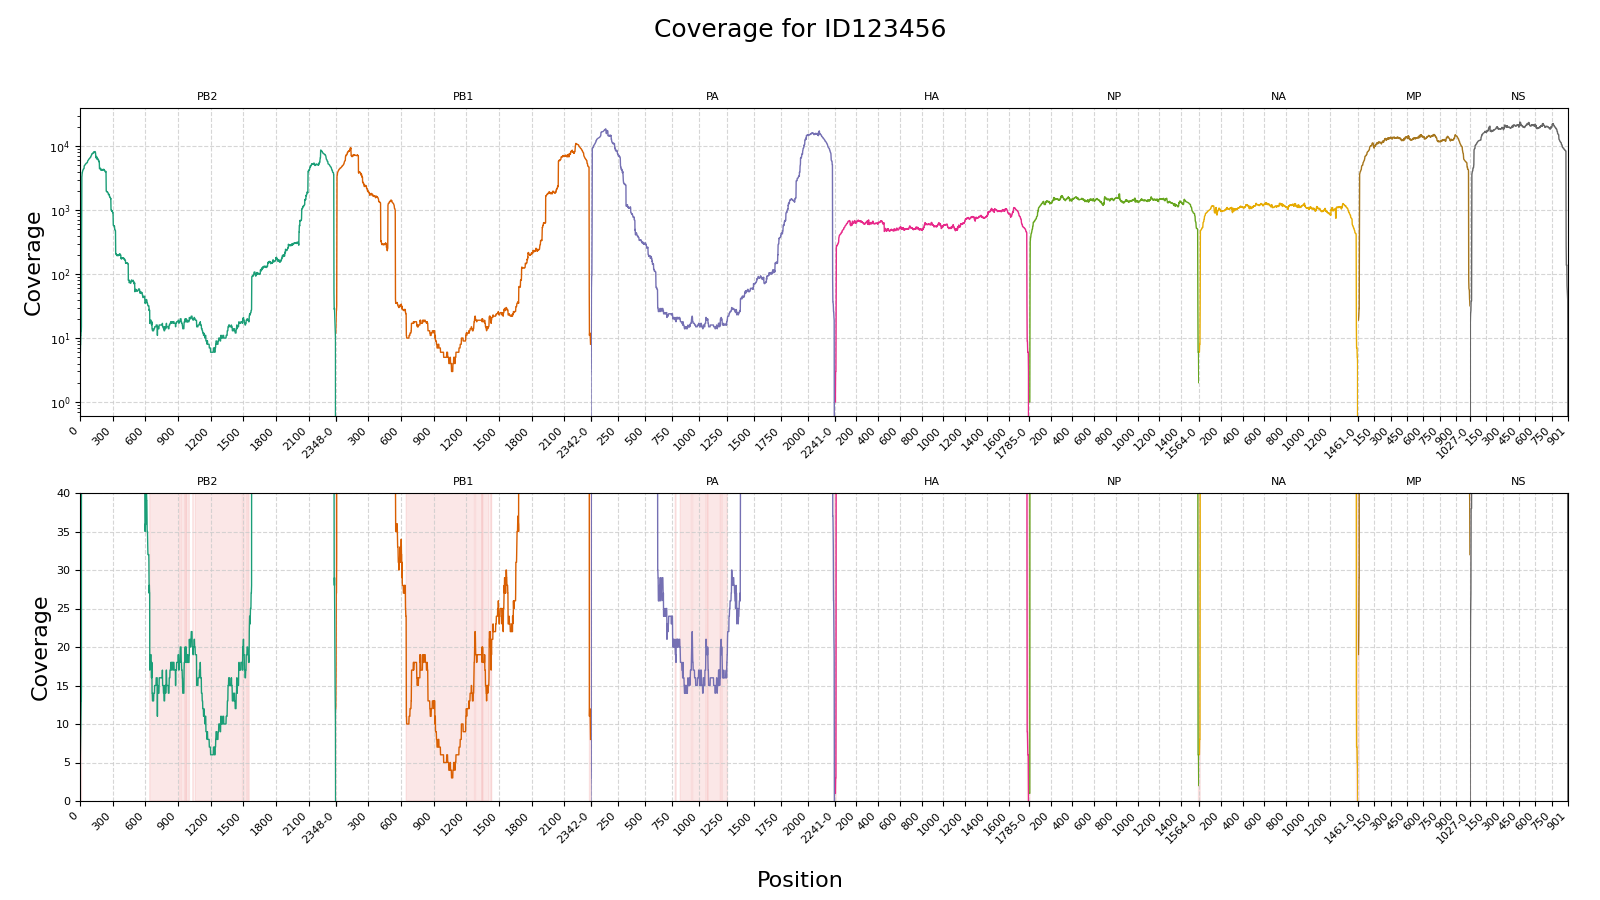
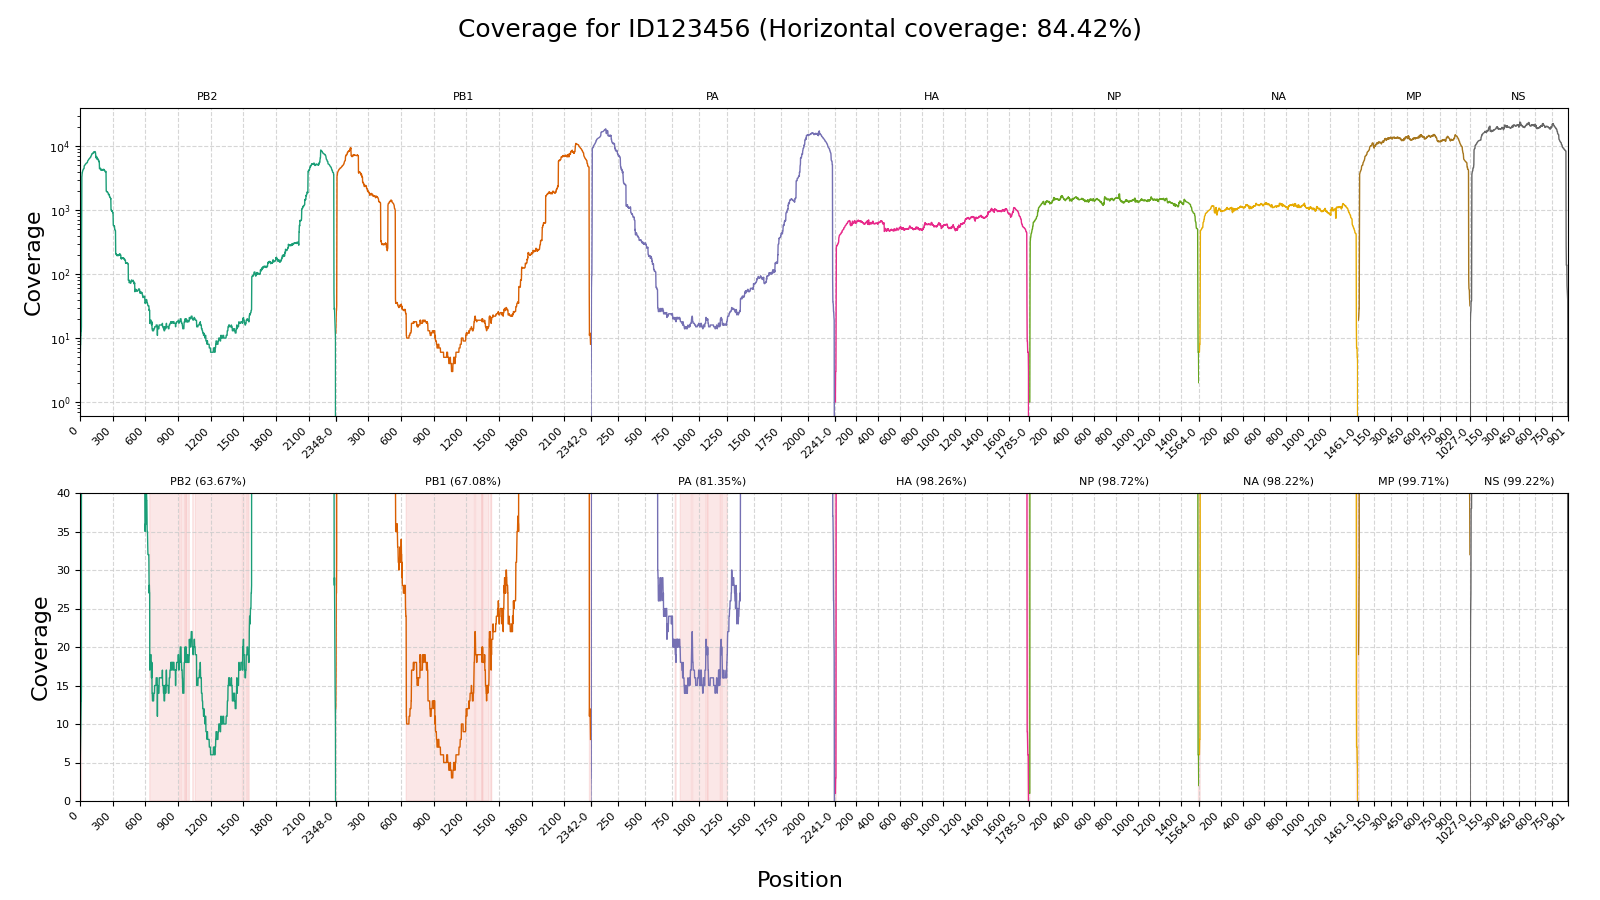
feat: added horizontal coverage

diff --git a/src/tacos/tacos.py b/src/tacos/tacos.py
@@ -13,7 +13,7 @@ from pandas.core.frame import DataFrame
 # Stops annoying warning messages form pandas
 pd.options.mode.chained_assignment = None
 
-__version__ = "2.1.0"
+__version__ = "2.2.0"
 __author__ = "EdoardoGiussani"
 __contact__ = "egiussani@izsvenezie.it"
 
@@ -35,6 +35,8 @@ def main(
     fig = plot_coverage(fig, cov_df, min_coverage)
 
     title = f"Coverage for {sample_name}" if sample_name else "Coverage"
+    if min_coverage > 0:
+        title += f" (Horizontal coverage: {calculate_horizontal_coverage(cov_df, min_coverage):.2%})"
     fig.suptitle(title, fontsize=18)
     fig.savefig(output_file)
 
@@ -83,8 +85,14 @@ def plot_chroms_coverage(
         )
 
         ax.plot(chrom_df["pos"], chrom_df["cov"], linewidth=1, color=color)
-        highlight_low_coverage_regions(ax, chrom_df, min_coverage)
-        ax.set_title(chrom_df["chrom"].iloc[0], fontsize=8)
+
+        title = chrom_df["chrom"].iloc[0]
+        if min_coverage > 0:
+            highlight_low_coverage_regions(ax, chrom_df, min_coverage)
+            h_cov = calculate_horizontal_coverage(chrom_df, min_coverage)
+            title += f" ({h_cov:.2%})"
+
+        ax.set_title(title, fontsize=8)
         ax = format_x_axis(ax, chrom_df.shape[0])
         ax = format_y_axis(ax)
 
@@ -94,15 +102,10 @@ def plot_chroms_coverage(
     return row_axes
 
 
-def format_y_axis(axes: Axes) -> Axes:
-    axes.grid(which="major", alpha=0.8, color="#CCCCCC", linestyle="--")
-
-    axes.spines["left"].set_visible(False)
-    axes.spines["right"].set_visible(False)
-    axes.tick_params(labelleft=False)
-    axes.tick_params(axis="y", which="both", left=False, right=False)
-
-    return axes
+def calculate_horizontal_coverage(chrom_df: DataFrame, min_coverage: int) -> float:
+    total_positions = chrom_df.shape[0]
+    covered_positions = chrom_df[chrom_df["cov"] >= min_coverage].shape[0]
+    return covered_positions / total_positions if total_positions > 0 else 0
 
 
 def highlight_low_coverage_regions(
@@ -123,6 +126,17 @@ def highlight_low_coverage_regions(
             interpolate=True,
             zorder=0,
         )
+    return ax
+
+
+def format_y_axis(ax: Axes) -> Axes:
+    ax.grid(which="major", alpha=0.8, color="#CCCCCC", linestyle="--")
+
+    ax.spines["left"].set_visible(False)
+    ax.spines["right"].set_visible(False)
+    ax.tick_params(labelleft=False)
+    ax.tick_params(axis="y", which="both", left=False, right=False)
+
     return ax
 
 
